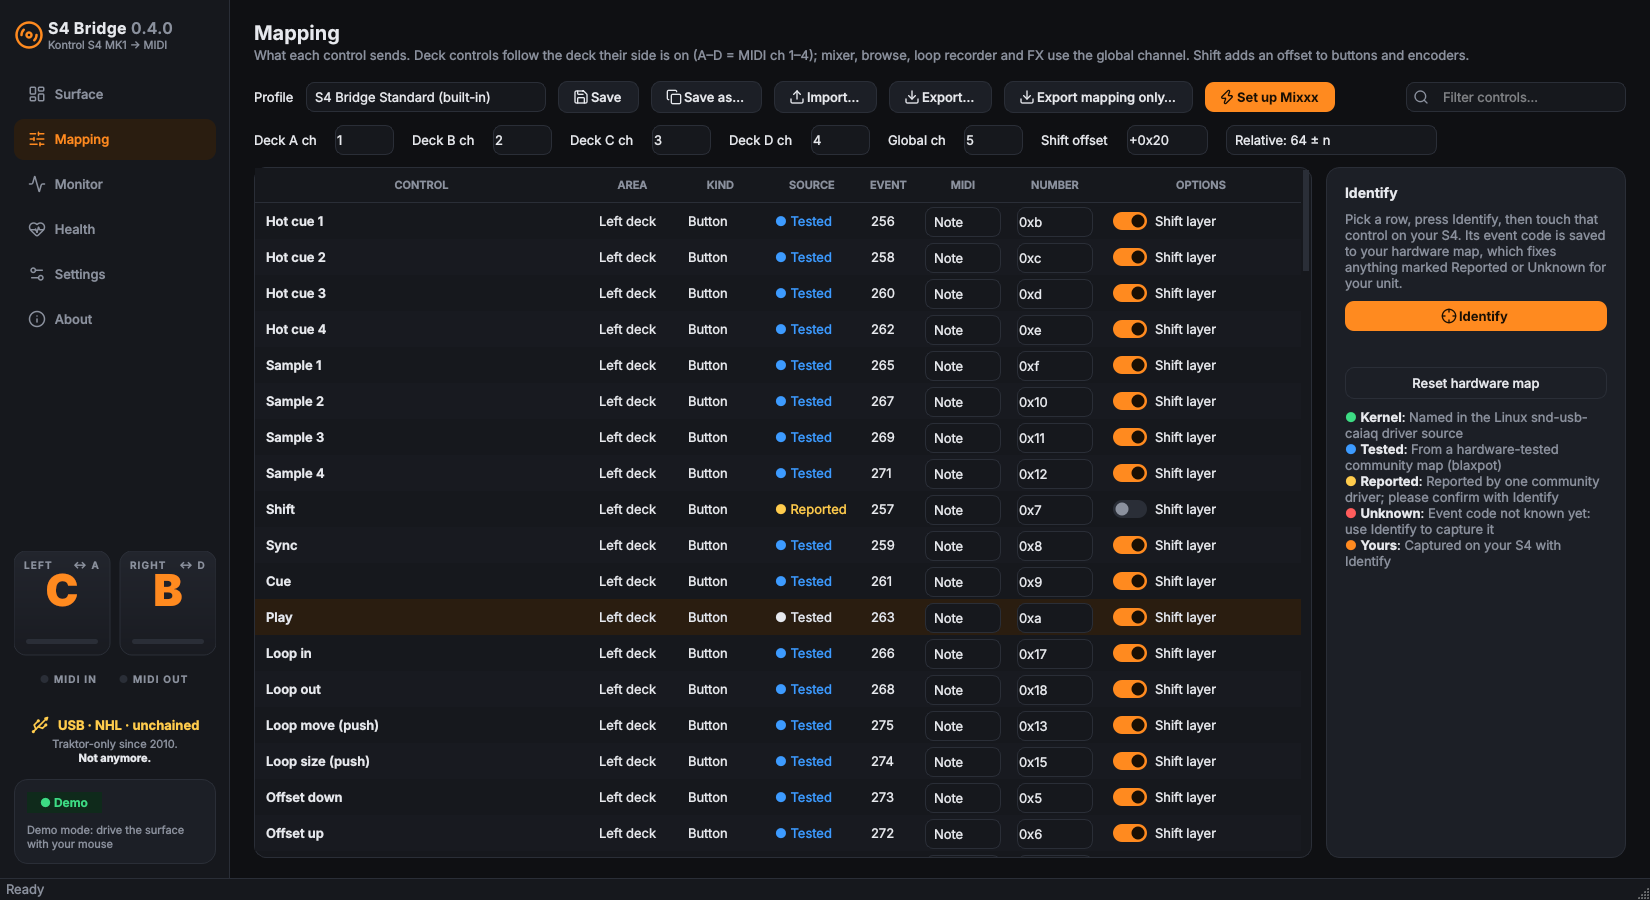
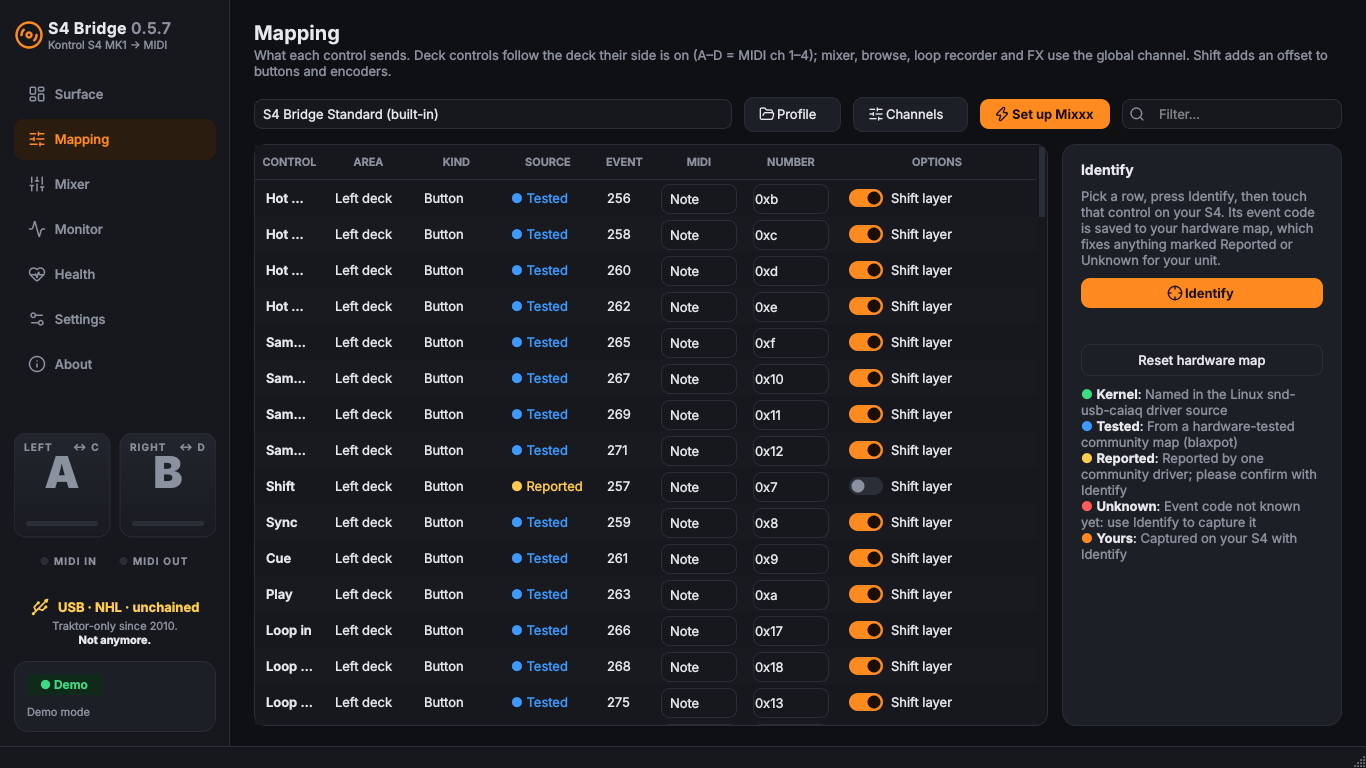
0.5.8: GitHub home is fancy-butler/s4bridge; README refresh; deck button clipping
Claude-Session: https://claude.ai/code/session_01GeZULf5azufdFSy5m7Npbx

diff --git a/s4bridge/ui/mainwindow.py b/s4bridge/ui/mainwindow.py
@@ -106,7 +106,8 @@ class SurfacePage(QWidget):
         for s in ("L", "R"):
             b = QPushButton()
             b.setMinimumHeight(54)
-            b.setStyleSheet("font-size:18px; font-weight:800;")
+            b.setStyleSheet("font-size:17px; font-weight:800; padding:4px 6px;")
+            b.setToolTip("Flip this side's deck")
             b.clicked.connect(lambda _=False, s=s: core.translator.toggle_deck(s))
             self.deck_btn[s] = b
             row.addWidget(b)
@@ -158,7 +159,7 @@ class SurfacePage(QWidget):
     def refresh(self):
         for s in ("L", "R"):
             d = self.core.translator.active[s]
-            self.deck_btn[s].setText(f"{'◀' if s == 'L' else ''}  Deck {d}  {'▶' if s == 'R' else ''}")
+            self.deck_btn[s].setText(f"Deck {d}")
         m = self.core.midi
         if self.core.midi_error:
             self.port_lbl.setText(f"<span style='color:{theme.BAD}'>Not available</span><br>"

diff --git a/tests/test_packaging.py b/tests/test_packaging.py
@@ -39,3 +39,17 @@ def test_every_version_string_agrees():
     }
     bad = {k: (m.group(1) if m else None) for k, m in found.items() if not m or m.group(1) != v}
     assert not bad, f"version {v} not matched in: {bad}"
+
+
+def test_github_owner_is_consistent():
+    from pathlib import Path
+    from s4bridge import updates
+    root = Path(__file__).resolve().parent.parent
+    owner = updates.REPO.split("/")[0]
+    assert owner == "fancy-butler"
+    for f in root.rglob("*"):
+        if ".git" in f.parts or not f.is_file() or f.suffix in (".png", ".svg", ".zip", ".pyc") or f == Path(__file__).resolve():
+            continue
+        text = f.read_text(errors="ignore")
+        assert "github.com/fancybutler" not in text, f
+        assert "io.github.fancybutler" not in text, f

diff --git a/s4bridge/updates.py b/s4bridge/updates.py
@@ -11,7 +11,7 @@ import json
 import re
 import time
 
-REPO = "fancybutler/s4bridge"          # the one place the GitHub owner/repo lives in code
+REPO = "fancy-butler/s4bridge"          # the one place the GitHub owner/repo lives in code
 API_URL = f"https://api.github.com/repos/{REPO}/releases/latest"
 RELEASES_URL = f"https://github.com/{REPO}/releases"
 ISSUES_URL = f"https://github.com/{REPO}/issues/new"

diff --git a/s4bridge/__init__.py b/s4bridge/__init__.py
@@ -1,3 +1,3 @@
 # SPDX-License-Identifier: GPL-3.0-or-later
 # Copyright (C) 2026 Fancy Butler
-__version__ = "0.5.7"
+__version__ = "0.5.8"

diff --git a/README.md b/README.md
@@ -30,6 +30,13 @@ Licensed GPL-3.0-or-later. © 2026 Fancy Butler.
 
 ## Install
 
+Get the source:
+
+```fish
+git clone https://github.com/fancy-butler/s4bridge
+cd s4bridge
+```
+
 ### Check the kernel side first
 
 Plug the S4 in and switch it on, then run:
@@ -67,7 +74,7 @@ sudo install -m644 packaging/70-s4bridge.rules /etc/udev/rules.d/
 sudo udevadm control --reload && sudo udevadm trigger
 ```
 
-The udev rule gives the logged-in user access to the S4's input device and stops it showing up as a joystick. Unplug and replug once after installing it.
+The udev rule gives the logged-in user access to the S4's input device and stops it showing up as a joystick. If you skip it, S4 Bridge notices and shows a **Fix it** button that installs it for you (it asks for your password once).
 
 There are no compiled Python extensions. MIDI and LEDs go straight to `libasound` through ctypes.
 
@@ -154,6 +161,8 @@ Global lamps (Quant, Headphone, Master, Snap, Warning) are notes `0x70`–`0x74`
 
 No DJ software needed: the S4 becomes a four-channel hardware-style mixer.
 
+![Standalone mixer](docs/mixer.png)
+
 - **Channels C and D** play the S4's rear inputs. For turntables, set the LINE/PHONO switch to PHONO.
 - **Channels A and B** play apps on your computer. Under **Mixer › Playing now**, every app that's making sound has a dropdown: pick Deck A or Deck B. Behind the scenes these are two new sound outputs, **S4 Deck A** and **S4 Deck B**, so any audio settings tool can use them too.
 - **Controls:** GAIN (push to reset), HI/MID/LOW with full kill, FILTER (low-pass left, high-pass right, off in the middle), channel faders, CUE to headphones, crossfader (A and C left, B and D right, as printed), and CUE MIX.
@@ -172,13 +181,16 @@ Every control in the app is tagged with where its event code came from:
 
 To fix or fill any of these, go to **Mapping**, select the row, click **Identify**, and touch the control. That writes to `~/.config/s4bridge/hardware.json` and overrides the built-in map.
 
-Things to check on first contact with real hardware:
+Tested on a real S4 MK1 (CachyOS, Mixxx 2.5): every button, knob, fader, jog and LED; LEVEL and CUE VOL are analog-only and never reach the computer. The Mixxx mapping, browsing, loading, cues, loops, and the standalone mixer's faders, EQ, filter, crossfader and meters all work.
 
-1. **Shift, DECK C/D, Snap/Master/Quant.** If one does nothing, Identify it.
-2. **FX knob order.** The kernel comments and the tested map disagree about which way round dry/wet and knobs 1–3 are numbered. The app follows the tested map. Turn each FX knob and watch the surface.
-3. **Jog ticks per turn.** Default is 1000, measured on a real S4 MK1. To fine-tune: **Settings › Jog wheels**, reset, spin one full turn, click **Use measured**. Applies live.
-4. **Tempo fader direction.** If up is slower, tick **Invert** on the Tempo rows.
-5. **Display digits.** If loop sizes read backwards (e.g. "61" for 16), tick **Swap the two display digits**.
+Not yet confirmed on hardware:
+
+- Headphone cue in the standalone mixer.
+- The rear inputs (channels C and D) in the standalone mixer.
+- Which way the OFFSET arrows point during soft takeover.
+- Fedora and Debian/Ubuntu installs (written to their packaging rules, not run yet).
+
+If something's off on your unit, **Health › Copy report** and [open an issue](https://github.com/fancy-butler/s4bridge/issues/new).
 
 ## Credits
 

diff --git a/CHANGELOG.md b/CHANGELOG.md
@@ -2,6 +2,15 @@
 
 All notable changes to S4 Bridge. Versions follow [Semantic Versioning](https://semver.org/).
 
+## 0.5.8
+### Changed
+- Home is now **github.com/fancy-butler/s4bridge**. The app ID is `io.github.fancy_butler.s4bridge`
+  (app IDs can't contain hyphens, so the hyphen becomes an underscore).
+- README: clone step, laptop-size screenshots including the mixer, and an honest list of what's
+  confirmed on hardware and what isn't.
+### Fixed
+- The Deck A / Deck B buttons on the Surface page were clipped on narrower windows.
+
 ## 0.5.7
 ### Changed
 - The status bar no longer says "Ready" all the time. It stays blank until there's something to report
